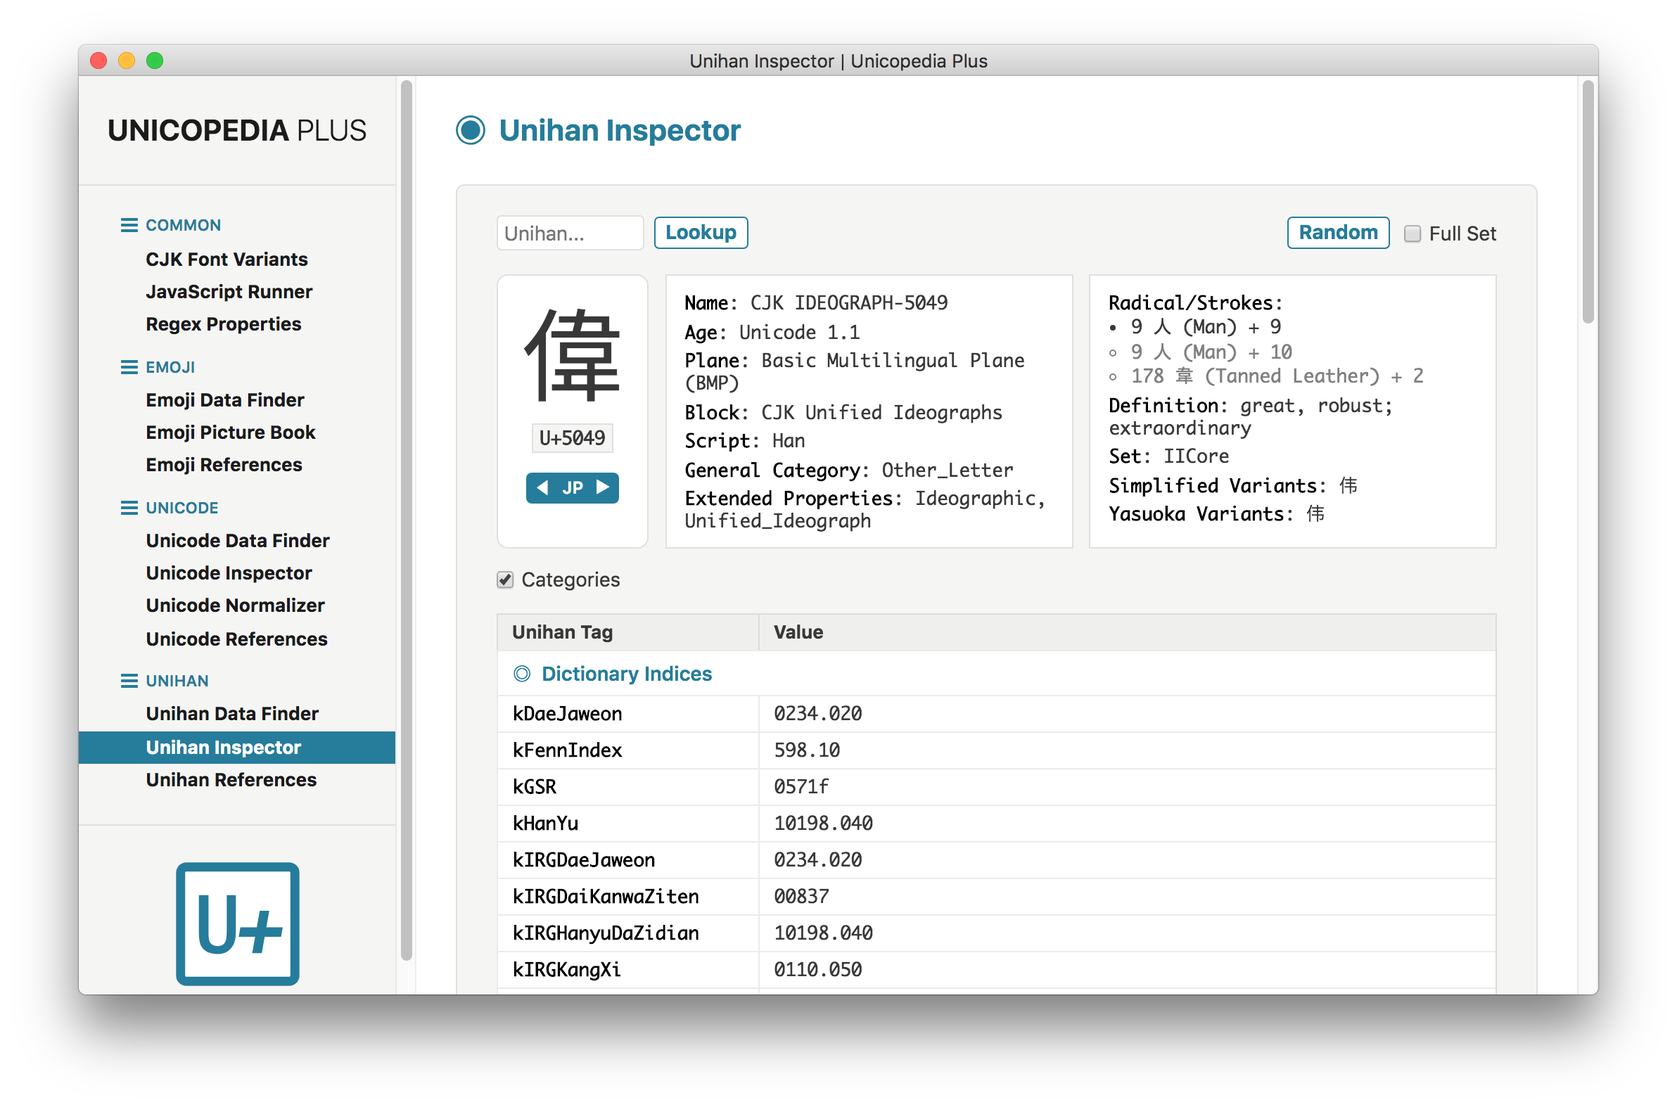
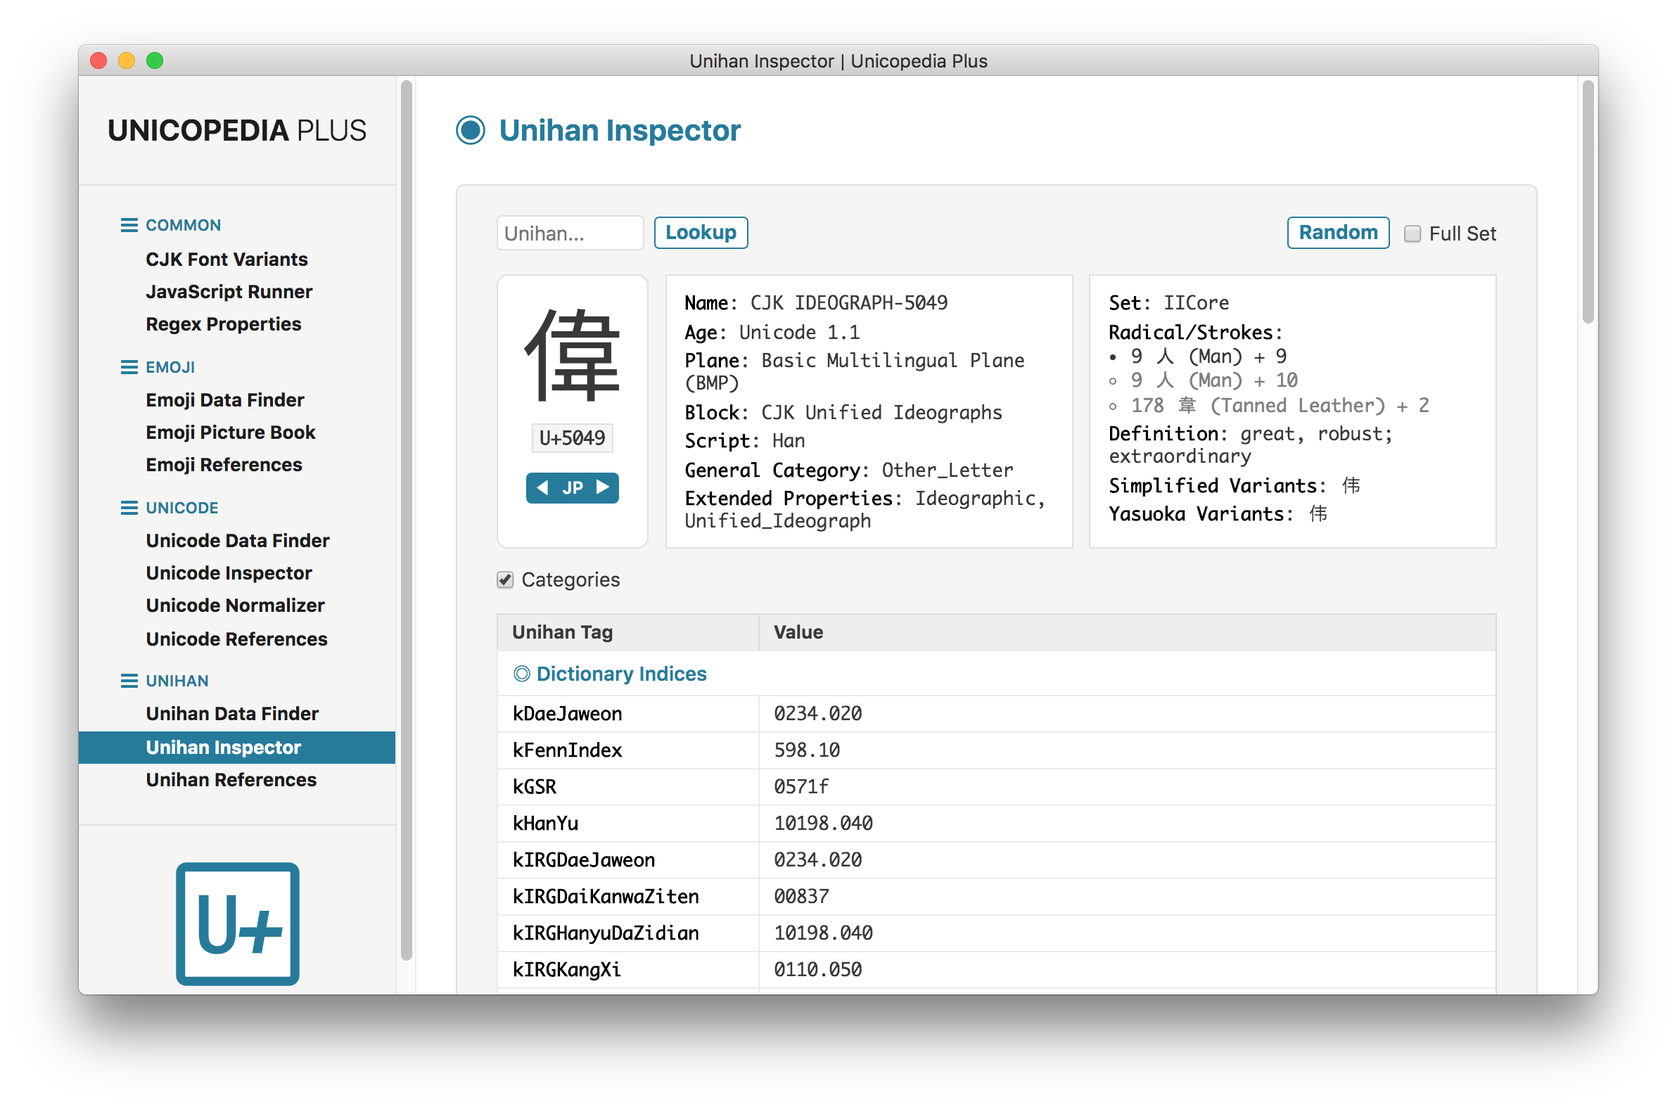
Updated app to 5.7.0

Changed region(s): [[0.6518, 0.249, 0.8381, 0.4358], [0.3104, 0.5915, 0.4346, 0.6226], [0.776, 0.4358, 0.807, 0.467]]

diff --git a/renderer/units/Unihan Inspector/import.js b/renderer/units/Unihan Inspector/import.js
@@ -36,7 +36,8 @@ module.exports.start = function (context)
     //
     // Unihan characters
     let unihanRegex = regexUnicode.build ('(?=\\p{Script=Han})(?=\\p{Other_Letter})', { useRegex: true });
-    //
+    // Unihan characters and radicals
+    let unihanAndRadicalsRegex = regexUnicode.build ('(?=\\p{Script=Han})(?=\\p{Other_Letter})|\\p{Radical}', { useRegex: true });
     // Han script characters:
     // - CJK radicals
     // - KangXi radicals
@@ -47,7 +48,68 @@ module.exports.start = function (context)
     // - Unihan characters
     let hanRegex = regexUnicode.build ('\\p{Script=Han}', { useRegex: true });
     //
-    let filterRegex = unihanRegex;
+    let filterRegex = unihanAndRadicalsRegex;
+    //
+    function appendTextWithLinks (node, text)
+    {
+        const regex = /(\bU\+[0-9a-fA-F]{4,5}\b)|(\p{Script=Han})/gu;
+        let matches;
+        let lastEndIndex = 0;
+        while (matches = regex.exec (text))
+        {
+            node.appendChild (document.createTextNode (text.slice (lastEndIndex, matches.index)));
+            lastEndIndex = matches.index + matches[0].length;
+            let codePoint;
+            let char;
+            let link;
+            if (matches[1])
+            {
+                codePoint = matches[1];
+                char = String.fromCodePoint (parseInt (codePoint.replace ("U+", "") , 16));
+                if (filterRegex.test (char))
+                {
+                    link = document.createElement ('span');
+                    link.className = 'unihan-character-link';
+                    if (char != currentUnihanCharacter)
+                    {
+                        link.classList.add ('clickable');
+                        link.addEventListener ('click', (event) => updateUnihanData (char));
+                    }
+                    link.textContent = codePoint;
+                    link.title = char;
+                    node.appendChild (link);
+                }
+                else
+                {
+                    node.appendChild (document.createTextNode (text.slice (matches.index, matches.index + matches[1].length)));
+                }
+            }
+            else if (matches[2])
+            {
+                char = matches[2];
+                if (filterRegex.test (char))
+                {
+                    codePoint = unicode.characterToCodePoint (char);
+                    link = document.createElement ('span');
+                    link.className = 'unihan-character-link';
+                    if (char != currentUnihanCharacter)
+                    {
+                        link.classList.add ('clickable');
+                        link.addEventListener ('click', (event) => updateUnihanData (char));
+                    }
+                    link.textContent = char;
+                    link.title = codePoint;
+                    node.appendChild (link);
+                }
+                else
+                {
+                    node.appendChild (document.createTextNode (text.slice (matches.index, matches.index + matches[2].length)));
+                }
+            }
+        }
+        node.appendChild (document.createTextNode (text.slice (lastEndIndex, text.length)));
+        node.normalize ();
+    }
     //
     function randomElement (elements)
     {
@@ -106,10 +168,7 @@ module.exports.start = function (context)
             for (let variant of variantArray)
             {
                 variant = variant.split ("<")[0];
-                if (variant !== codePoint)  // Discard self variants (consistent with Yasuoka)
-                {
-                    variants.push (String.fromCodePoint (parseInt (variant.replace ("U+", ""), 16)));
-                }
+                variants.push (String.fromCodePoint (parseInt (variant.replace ("U+", ""), 16)));
             }
         }
         return variants;
@@ -226,6 +285,19 @@ module.exports.start = function (context)
             typefaceNext.addEventListener ('click', event => { updateTypeface (false); });
             //
             let unicodeData = unicode.getCharacterData (unihanCharacter.textContent);
+            let numericType = "";
+            if (unicodeData.numeric)
+            {
+                numericType = "Numeric";
+                if (unicodeData.digit)
+                {
+                    numericType = "Digit";
+                    if (unicodeData.decimal)
+                    {
+                        numericType = "Decimal";
+                    }
+                }
+            }
             let unicodeFields =
             [
                 { name: "Name", value: unicodeData.name },
@@ -235,9 +307,10 @@ module.exports.start = function (context)
                 { name: "Script", value: unicodeData.script },
                 { name: "Script Extensions", value: unicodeData.scriptExtensions },
                 { name: "General Category", value: unicodeData.category },
-                { name: "Decomposition", value: unicodeData.decomposition },
                 { name: "Extended Properties", value: unicodeData.extendedProperties },
-                { name: "Equivalent Unified Ideograph", value: unicodeData.equivalentUnifiedIdeograph }
+                { name: "Decomposition", value: unicodeData.decomposition },
+                { name: "Equivalent Unified Ideograph", value: unicodeData.equivalentUnifiedIdeograph },
+                { name: numericType, value: unicodeData.numeric }
             ];
             //
             let unicodeInfo = document.createElement ('div');
@@ -255,10 +328,15 @@ module.exports.start = function (context)
                     field.appendChild (document.createTextNode (": "));
                     let value = document.createElement ('span');
                     value.className = 'value';
-                    value.textContent = Array.isArray (unicodeField.value) ? unicodeField.value.join (", ") : unicodeField.value;
+                    let text = Array.isArray (unicodeField.value) ? unicodeField.value.join (", ") : unicodeField.value;
                     if (unicodeField.toolTip)
                     {
+                        value.textContent = text;
                         value.title = unicodeField.toolTip;
+                    }
+                    else
+                    {
+                        appendTextWithLinks (value, text);
                     }
                     field.appendChild (value);
                     unicodeInfo.appendChild (field);
@@ -269,6 +347,7 @@ module.exports.start = function (context)
             unihanInfo.className = 'unihan-info';
             if (tags)
             {
+                let iiCoreSet = ("kIICore" in tags) ? "IICore" : "Full";
                 let rsValues = [ ];
                 let rsClasses = [ ];
                 let rsIRGCount = 0;
@@ -337,22 +416,21 @@ module.exports.start = function (context)
                 let traditional = getVariants (character, 'kTraditionalVariant');
                 let yasuoka = yasuokaVariants[character] || [ ];
                 yasuoka = yasuoka.filter (variant => filterRegex.test (variant));
-                let iiCoreSet = ("kIICore" in tags) ? "IICore" : "";
                 let unihanFields =
                 [
+                    { name: "Set", value: iiCoreSet },
                     { name: "Radical/Strokes", value: rsValues, class: rsClasses },
                     { name: "Definition", value: definitionValue, class: 'line-clamp' },
                     { name: "Numeric Value", value: numericValue },
-                    { name: "Set", value: iiCoreSet },
                     // null,
-                    { name: "Unified Variant", value: unified, separator: " " },
-                    { name: "Compatibility Variants", value: compatibility, separator: " " },
-                    { name: "Semantic Variants", value: semantic, separator: " " },
-                    { name: "Specialized Variants", value: specialized, separator: " " },
-                    { name: "Shape Variants", value: shape, separator: " " },
-                    { name: "Simplified Variants", value: simplified, separator: " " },
-                    { name: "Traditional Variants", value: traditional, separator: " " },
-                    { name: "Yasuoka Variants", value: yasuoka, separator: " " }
+                    { name: "Unified Variant", value: unified.join (" ") },
+                    { name: "Compatibility Variants", value: compatibility.join (" ") },
+                    { name: "Semantic Variants", value: semantic.join (" ") },
+                    { name: "Specialized Variants", value: specialized.join (" ") },
+                    { name: "Shape Variants", value: shape.join (" ") },
+                    { name: "Simplified Variants", value: simplified.join (" ") },
+                    { name: "Traditional Variants", value: traditional.join (" ") },
+                    { name: "Yasuoka Variants", value: yasuoka.join (" ") }
                 ];
                 //
                 for (let unihanField of unihanFields)
@@ -381,48 +459,27 @@ module.exports.start = function (context)
                                 field.appendChild (document.createTextNode (": "));
                                 let value = document.createElement ('span');
                                 value.className = 'value';
-                                if (unihanField.separator)
-                                {
-                                    unihanField.value.forEach
-                                    (
-                                        (element, index) =>
+                                let list = document.createElement ('ul');
+                                list.className = 'list';
+                                unihanField.value.forEach
+                                (
+                                    (element, index) =>
+                                    {
+                                        let item = document.createElement ('li');
+                                        item.className = 'item';
+                                        if (Array.isArray (unihanField.class))
                                         {
-                                            if (index > 0)
+                                            let itemClass = unihanField.class[index];
+                                            if (itemClass)
                                             {
-                                                value.appendChild (document.createTextNode (unihanField.separator));
+                                                item.classList.add (itemClass);
                                             }
-                                            let span = document.createElement ('span');
-                                            span.className = 'unihan-character';
-                                            span.textContent = element;
-                                            span.title = unicode.characterToCodePoint (element);
-                                            value.appendChild (span);
                                         }
-                                    );
-                                }
-                                else
-                                {
-                                    let list = document.createElement ('ul');
-                                    list.className = 'list';
-                                    unihanField.value.forEach
-                                    (
-                                        (element, index) =>
-                                        {
-                                            let item = document.createElement ('li');
-                                            item.className = 'item';
-                                            if (Array.isArray (unihanField.class))
-                                            {
-                                                let itemClass = unihanField.class[index];
-                                                if (itemClass)
-                                                {
-                                                    item.classList.add (itemClass);
-                                                }
-                                            }
-                                            item.textContent = element;
-                                            list.appendChild (item);
-                                        }
-                                    );
-                                    value.appendChild (list);
-                                }
+                                        appendTextWithLinks (item, element);
+                                        list.appendChild (item);
+                                    }
+                                );
+                                value.appendChild (list);
                                 field.appendChild (value);
                             }
                         }
@@ -435,7 +492,7 @@ module.exports.start = function (context)
                             field.appendChild (document.createTextNode (": "));
                             let value = document.createElement ('span');
                             value.className = 'value';
-                            value.textContent = unihanField.value;
+                            appendTextWithLinks (value, unihanField.value);
                             field.appendChild (value);
                         }
                         unihanInfo.appendChild (field);
@@ -512,14 +569,14 @@ module.exports.start = function (context)
                                         {
                                             let item = document.createElement ('li');
                                             item.className = 'item';
-                                            item.textContent = element;
+                                            appendTextWithLinks (item, element);
                                             list.appendChild (item);
                                         }
                                         valueCell.appendChild (list);
                                     }
                                     else
                                     {
-                                        valueCell.textContent = value;
+                                        appendTextWithLinks (valueCell, value);
                                     }
                                     tagRow.appendChild (valueCell);
                                     tagsList.appendChild (tagRow);
@@ -550,14 +607,14 @@ module.exports.start = function (context)
                             {
                                 let item = document.createElement ('li');
                                 item.className = 'item';
-                                item.textContent = element;
+                                appendTextWithLinks (item, element);
                                 list.appendChild (item);
                             }
                             valueCell.appendChild (list);
                         }
                         else
                         {
-                            valueCell.textContent = value;
+                            appendTextWithLinks (valueCell, value);
                         }
                         tagRow.appendChild (valueCell);
                         tagsList.appendChild (tagRow);
@@ -733,6 +790,7 @@ module.exports.start = function (context)
         unihanInput.value = "";
         unihanInput.dispatchEvent (new Event ('input'));
         displayData (character);
+        unit.scrollTop = 0;
     }
     //
     lookupButton.addEventListener

diff --git a/renderer/units/Unihan Inspector/import.html b/renderer/units/Unihan Inspector/import.html
@@ -32,8 +32,8 @@
                     <li>Any Unihan character can be entered in the <kbd>Unihan</kbd> input field either as a character or a code point. Click on the <kbd>Lookup</kbd> button to display the list of Unihan tags.</li>
                     <li>In addition, the utility provides, for each Unihan character:
                         <ul>
-                            <li>basic Unicode information: name, age, plane, block, script, script extensions, general category, decomposition, extended properties, equivalent unified ideograph;</li>
-                            <li>basic Unihan information: radical/strokes, definition, numeric value, IICore set, variant characters.</li>
+                            <li>basic Unicode information: name, age, plane, block, script, script extensions, general category, extended properties, decomposition, equivalent unified ideograph, numeric value;</li>
+                            <li>basic Unihan information: set (IICore or full), radical/strokes, definition, numeric value, variant characters.</li>
                         </ul>
                     </li>
                     <li>Previously looked up Unihan characters are kept in a history stack; use the <kbd>Alt</kbd>+<kbd>↑</kbd> and <kbd>Alt</kbd>+<kbd>↓</kbd> keyboard shortcuts to navigate through them up and down inside the input field.</li>
@@ -50,7 +50,7 @@
                     </li>
                     <li>Double-click on the two-letter language code to toggle between these five CJK typefaces and the system default typeface.</li>
                     <li>Use the <kbd>Categories</kbd> checkbox to toggle between: all Unihan tags ordered alphabetically, or grouped by categories.</li>
-                    <li>Variant characters, if any, are listed under several classes in the basic Unihan information panel, excluding the looked up character itself:
+                    <li>Variant characters, if any, are listed under several classes in the basic Unihan information panel:
                         <ul>
                             <li><code>Unified Variant</code>: decomposition of the looked up character</li>
                             <li><code>Compatibility Variants</code>: characters whose decomposition is the looked up character</li>

diff --git a/renderer/units/Unihan Inspector/import.css b/renderer/units/Unihan Inspector/import.css
@@ -220,14 +220,14 @@
     color: var(--color-strongest);
 }
 
-#unihan-inspector-unit .unihan-info .field.line-clamp
+/* #unihan-inspector-unit .unihan-info .field.line-clamp
 {
     overflow: hidden;
     text-overflow: ellipsis;
     display: -webkit-box;
     -webkit-line-clamp: 3;
     -webkit-box-orient: vertical;
-}
+} */
 
 #unihan-inspector-unit .unihan-info .field .list
 {
@@ -251,9 +251,20 @@
     list-style-type: circle;
 }
 
-#unihan-inspector-unit .unihan-info .field .unihan-character
+#unihan-inspector-unit span.unihan-character-link
 {
-    /* font-size: 24px; */
+    border: 1px solid transparent;
+    border-radius: 2px;
+    padding: 1px 2px;
+    margin: auto -1px;
+}
+
+#unihan-inspector-unit span.unihan-character-link.clickable:hover
+{
+    color: var(--color-accent);
+    border: 1px solid var(--color-accent);
+    background: var(--color-accent) linear-gradient(hsla(0, 0%, 100%, 0.9), hsla(0, 0%, 100%, 0.9));
+    cursor: pointer;
 }
 
 #unihan-inspector-unit .tags-data

diff --git a/renderer/units/Unihan Data Finder/import.html b/renderer/units/Unihan Data Finder/import.html
@@ -138,7 +138,7 @@
                         </ul>
                         <p><kbd>kIICore</kbd></p>
                         <ul>
-                            <li><code>.</code> or <code>[^]</code> or <code>[\s\S]</code><br>Unihan characters whose 'kIICore' tag value is not empty, i.e., belong to the IICore set of 9,810 CJK unified ideographs in common usage</li>
+                            <li><code>.</code> or <code>[^]</code> or <code>[\s\S]</code><br>Unihan characters whose 'kIICore' tag value is not empty, i.e., which belong to the IICore set of 9,810 CJK unified ideographs in common usage</li>
                         </ul>
                         <p><kbd>kJapaneseKun</kbd></p>
                         <ul>

diff --git a/renderer/lib/unicode/parsed-unihan-data.js b/renderer/lib/unicode/parsed-unihan-data.js
@@ -880,7 +880,7 @@ for (let filename of filenames)
     {
         if (line && (line[0] !== "#"))
         {
-            let found = line.match (/^(U\+2?[0-9A-F]{4})\s+(\w+)\s+(.*)$/);
+            let found = line.match (/^(U\+2?[0-9A-F]{4})\t(\w+)\t(.+)$/);
             if (found)
             {
                 if (!(found[1] in codePoints))

diff --git a/README.md b/README.md
@@ -336,8 +336,8 @@ The following utilities are currently available:
     - *Unihan_Variants.txt*
 - Any Unihan character can be entered in the <kbd>Unihan</kbd> input field either as a character or a code point. Click on the <kbd>Lookup</kbd> button to display the list of Unihan tags.
 - In addition, the utility provides, for each Unihan character:
-    - basic Unicode information: name, age, plane, block, script, script extensions, general category, decomposition, extended properties, equivalent unified ideograph;
-    - basic Unihan information: radical/strokes, definition, numeric value, IICore set, variant characters.
+    - basic Unicode information: name, age, plane, block, script, script extensions, general category, extended properties, decomposition, equivalent unified ideograph, numeric value;
+    - basic Unihan information: set (IICore or full), radical/strokes, definition, numeric value, variant characters.
 - Previously looked up Unihan characters are kept in a history stack; use the <kbd>Alt</kbd>+<kbd>↑</kbd> and <kbd>Alt</kbd>+<kbd>↓</kbd> keyboard shortcuts to navigate through them up and down inside the input field.
 - It is also possible to lookup a randomly selected Unihan character by clicking on the <kbd>Random</kbd> button; use the <kbd>Full Set</kbd> checkbox to perform the draw on the full set of 88,889 Unihan characters, or restrict it to the IICore set of 9,810 CJK unified ideographs in common usage.
 - The currently looked up Unihan character is displayed at a large scale, followed by its code point.
@@ -349,7 +349,7 @@ The following utilities are currently available:
     - `HK`: Traditional Chinese (Hong Kong)
 - Double-click on the two-letter language code to toggle between these five CJK typefaces and the system default typeface.
 - Use the <kbd>Categories</kbd> checkbox to toggle between: all Unihan tags ordered alphabetically, or grouped by categories.
-- Variant characters, if any, are listed under several classes in the basic Unihan information panel, excluding the looked up character itself:
+- Variant characters, if any, are listed under several classes in the basic Unihan information panel:
     - `Unified Variant`: decomposition of the looked up character
     - `Compatibility Variants`: characters whose decomposition is the looked up character
     - `Semantic Variants`: characters listed under the *kSemanticVariant* Unihan tag
